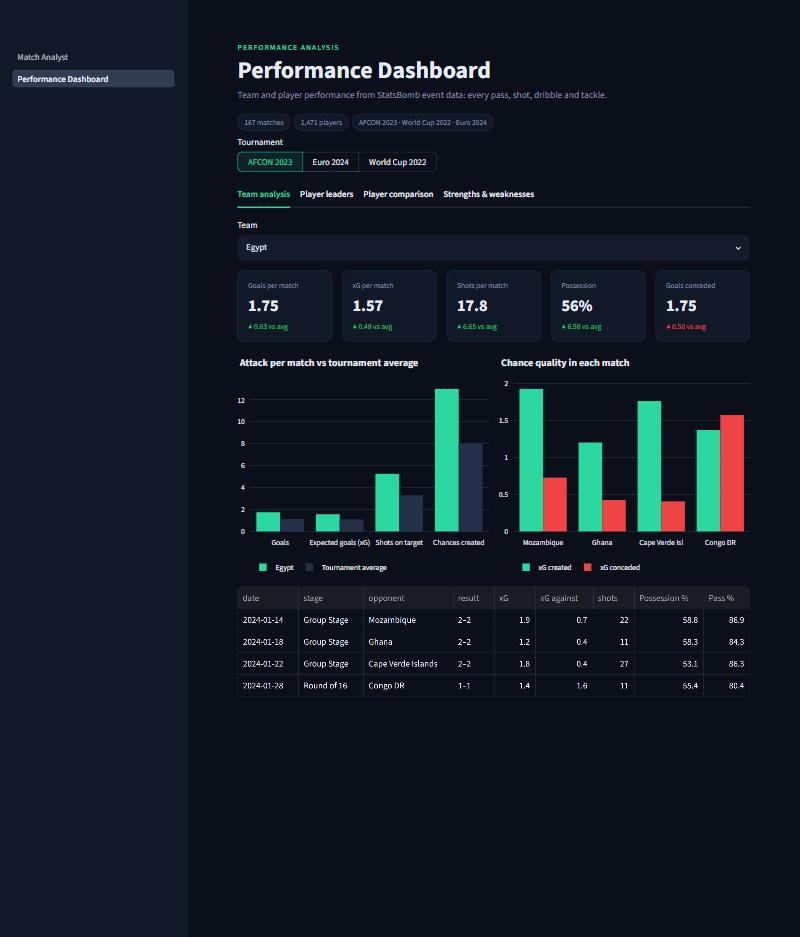
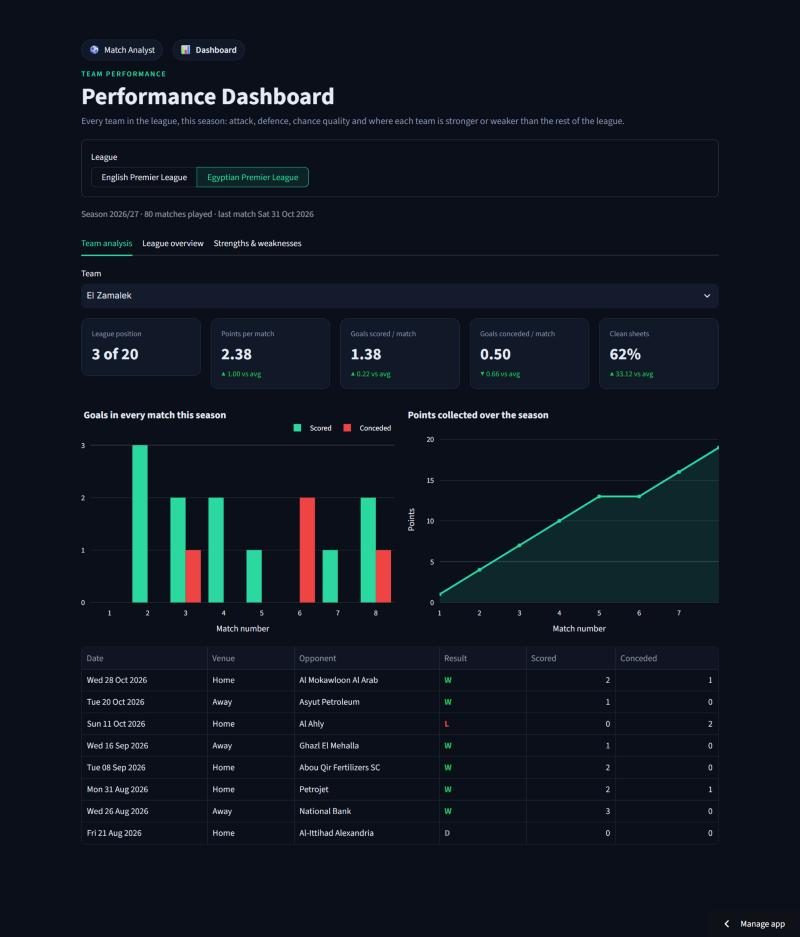
README: live link, current numbers, daily refresh, new screenshots; points chart shows last match

diff --git a/pages/2_Performance_Dashboard.py b/pages/2_Performance_Dashboard.py
@@ -101,8 +101,8 @@ with tab_team:
     fig = go.Figure(go.Scatter(x=list(range(1, len(cum) + 1)), y=cum, mode="lines+markers",
                                line={"color": ui.C["accent"], "width": 3}, fill="tozeroy",
                                fillcolor="rgba(43,217,160,0.12)"))
-    fig.update_layout(title="Points collected over the season", height=380,
-                      xaxis={"title": "Match number", "dtick": 1}, yaxis_title="Points")
+    fig.update_layout(title="Points collected over the season", height=380,  # padded range: last match was cut off
+                      xaxis={"title": "Match number", "dtick": 1, "range": [0.7, len(cum) + 0.3]}, yaxis_title="Points")
     right.plotly_chart(fig, width="stretch")
 
     cols = ["date", "venue", "opponent", "result", "goals_for", "goals_against"] + \

diff --git a/README.md b/README.md
@@ -1,16 +1,22 @@
 # Football AI Match Analyst + Performance Dashboard
 
+**Live:** https://football-ai-analyst-v1.streamlit.app
+
 Pre-match analysis system: real match data → SQL → retrieval (SQL + RAG) → prediction model → LLM analyst → fact-checking agent → bilingual (English / Arabic) report, with a measurable evaluation.
 
-**Leagues:** English Premier League (8,060 matches, 2005 → Oct 2026) and Egyptian Premier League (4,721 matches, 2009 → Oct 2026, current season and upcoming fixtures from Kooora).
+**Leagues:** English Premier League (8,070 matches, 2005 → today) and Egyptian Premier League (4,724 matches, 2009 → today). Data refreshes every morning by a GitHub Action (Kooora for the current Egyptian season, football-data.co.uk for EPL results, openfootball for the EPL schedule).
 
 **Performance dashboard:** current-season team analysis, league overview (attack vs defence) and strengths & weaknesses for every team in both leagues.
 
-**AI writer:** Gemini (`GEMINI_API_KEY`) or Claude (`ANTHROPIC_API_KEY`); without a key an offline template writes the report. Reports are cached and capped at 30 AI calls per day on the public site.
+**AI writer:** Gemini Flash Lite (`GEMINI_API_KEY`, Flash as fallback) or Claude (`ANTHROPIC_API_KEY`); without a key an offline template writes the report. Data + model take under a second and the report a few seconds; the page shows the timing. Reports are cached and capped at 30 AI calls per day on the public site.
 
 | Match Analyst | Performance Dashboard |
 |---|---|
 | ![Match analyst](docs/match_analyst.jpg) | ![Performance dashboard](docs/dashboard.jpg) |
+
+**Fact-checked Arabic report** (every number is verified against the data before it is shown):
+
+![Arabic report](docs/report_arabic.jpg)
 
 ```
 football-data.co.uk + footballdatabase ─► pipeline.py ─► PostgreSQL / SQLite
@@ -19,7 +25,7 @@ football-data.co.uk + footballdatabase ─► pipeline.py ─► PostgreSQL / SQ
                                                      + RAG over match documents (TF-IDF)
                                                      + team-strength prediction model
                                                   │
-                                   agents.py ─────┤  AnalysisAgent (Claude) ⇄ ValidationAgent (fact checker, retry loop)
+                                   agents.py ─────┤  AnalysisAgent (Gemini / Claude) ⇄ ValidationAgent (fact checker, retry loop)
                                                   │
                            Match_Analyst.py / main.py ┘  web page / CLI → reports/*.md + *.json
                                  evaluate.py         backtest of all models + hallucination tests
@@ -96,7 +102,7 @@ No. Extra features and ML models do not beat v2 on probability quality. Around 5
 
 The project uses match and performance data only — no betting odds.
 
-Fact checker: clean report passes; injected fake stat, fake score, fake probability and missing Arabic section are all caught.
+Fact checker: clean report passes; injected fake stat, fake score, fake probability, missing Arabic section and a report cut off mid-way are all caught (5/5).
 
 ## How hallucinations are prevented
 
